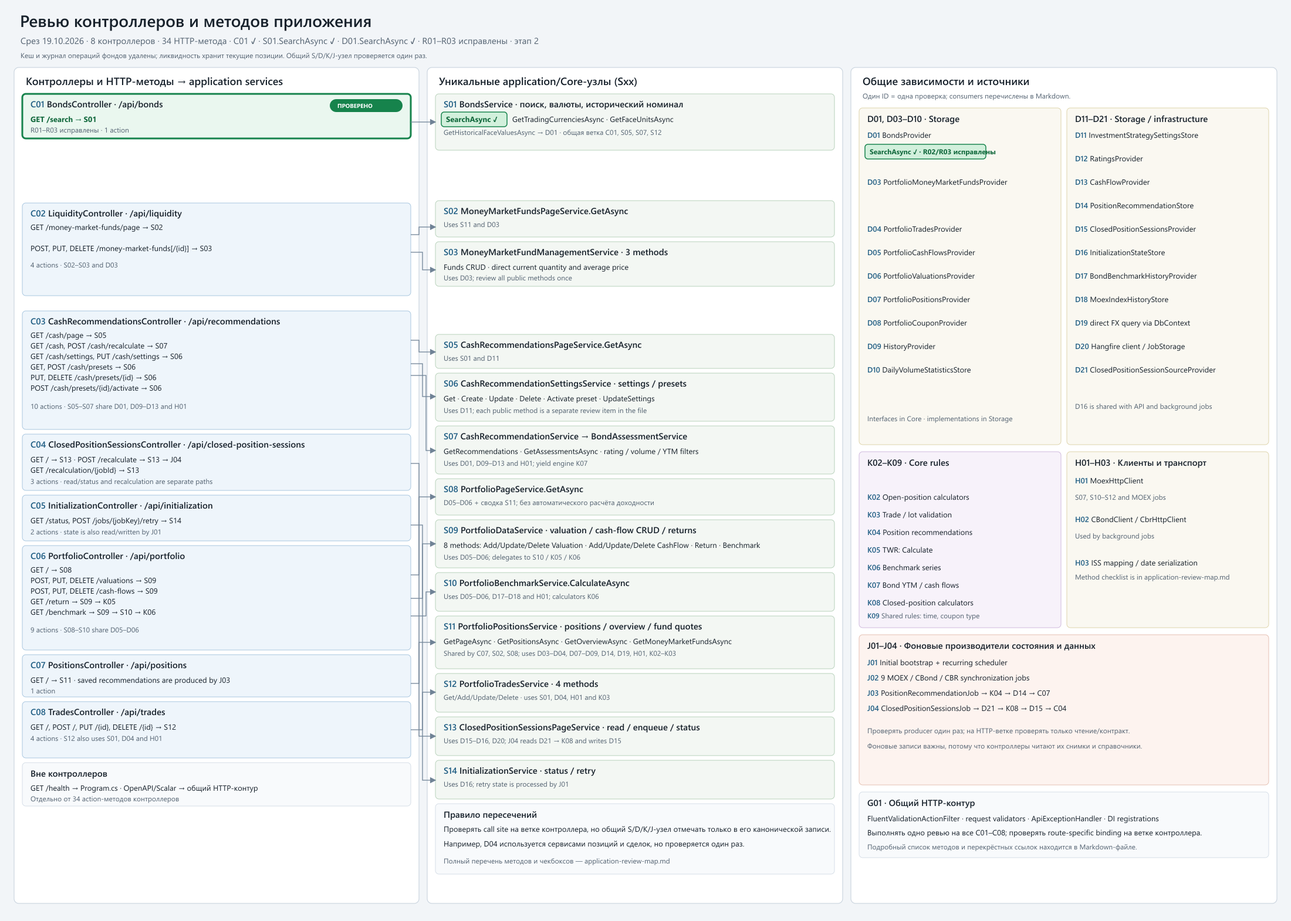
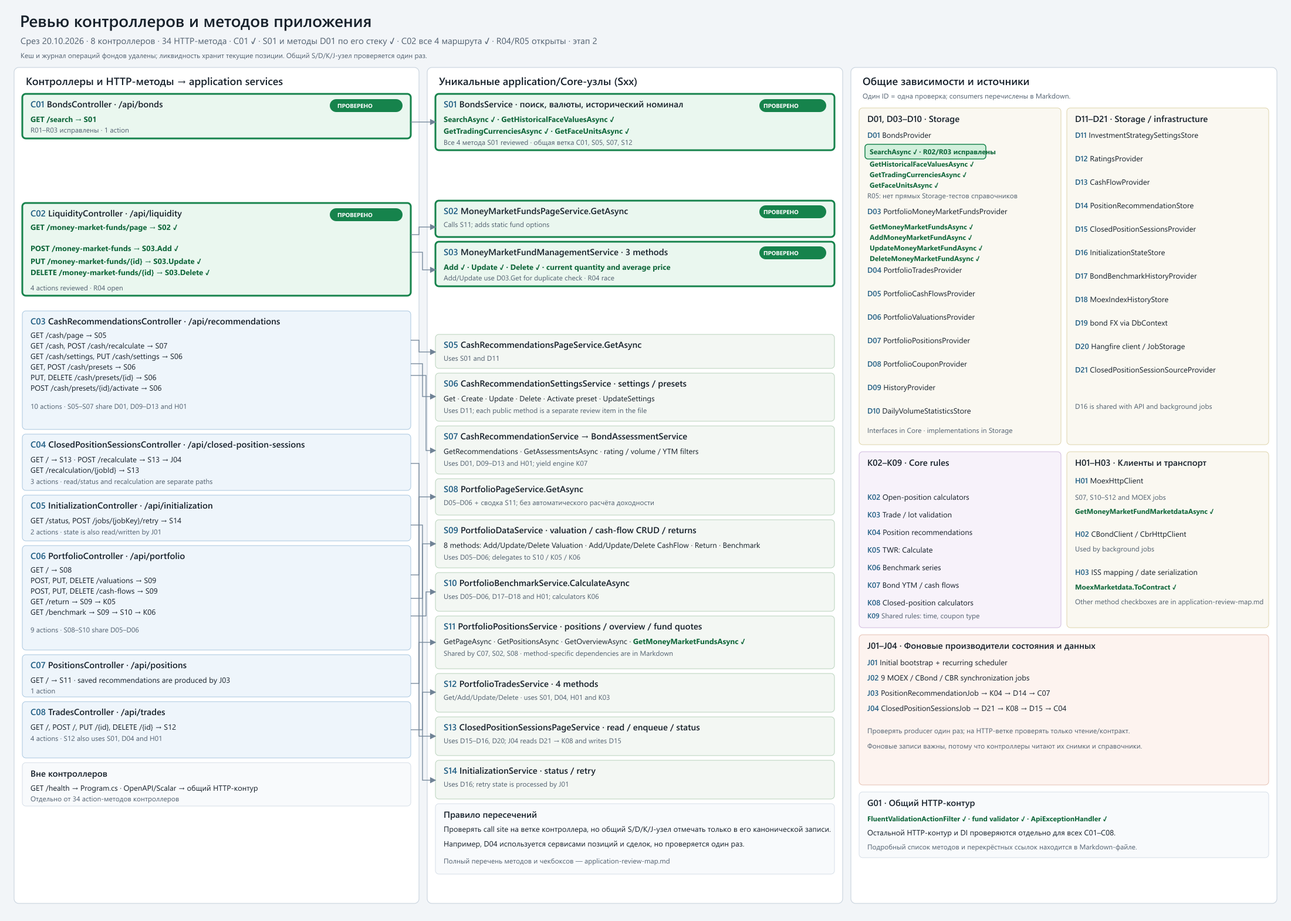
Document review of bonds service stack

diff --git a/src/Popo.Core/Bonds/IBondsService.cs b/src/Popo.Core/Bonds/IBondsService.cs
@@ -10,10 +10,13 @@ public interface IBondsService
         IReadOnlyList<BondFaceValueRequest> requests,
         CancellationToken cancellationToken);
 
-    /// <summary>Возвращает валюты, доступные для торговли облигациями, для списка выбора на странице кеша.</summary>
+    /// <summary>Возвращает валюты торгов облигациями, используемые для фильтрации рекомендаций.</summary>
     /// <param name="cancellationToken">Токен отмены операции.</param>
-    /// <returns>Уникальные коды валют.</returns>
+    /// <returns>Уникальные коды валют торгов.</returns>
     Task<IReadOnlyList<string>> GetTradingCurrenciesAsync(CancellationToken cancellationToken);
 
+    /// <summary>Возвращает валюты номинала.</summary>
+    /// <param name="cancellationToken">Токен отмены операции.</param>
+    /// <returns>Уникальные коды валют номинала.</returns>
     Task<IReadOnlyList<string>> GetFaceUnitsAsync(CancellationToken cancellationToken);
 }

diff --git a/src/Popo.Api/Models/CashInvestmentRecommendationModels.cs b/src/Popo.Api/Models/CashInvestmentRecommendationModels.cs
@@ -88,7 +88,14 @@ public sealed record CashRecommendationResponse(
 
 public static class CashInvestmentRecommendationApiMapper
 {
+    /// <summary>Преобразует сохранённый пресет стратегии в API-ответ.</summary>
+    /// <param name="preset">Пресет с настройками и признаком активности.</param>
+    /// <returns>Пресет в формате ответа API.</returns>
     public static InvestmentStrategyPresetResponse ToResponse(InvestmentStrategyPreset preset) => new(preset.Id, preset.Name, ToResponse(preset.Settings), preset.IsActive);
+
+    /// <summary>Преобразует настройки инвестиционной стратегии в API-ответ.</summary>
+    /// <param name="settings">Настройки стратегии.</param>
+    /// <returns>Настройки в формате ответа API.</returns>
     public static InvestmentStrategySettingsResponse ToResponse(InvestmentStrategySettings settings) => new(
         settings.MinimumRating,
         settings.MinimumMaturityDays,

diff --git a/src/Popo.Storage/Providers/Bonds/BondsProvider.cs b/src/Popo.Storage/Providers/Bonds/BondsProvider.cs
@@ -12,19 +12,20 @@ public sealed class BondsProvider(IDbContextFactory<PopoDbContext> dbContextFact
         return await dbContext.MoexBondSecurities
             .AsNoTracking()
             .Where(x => x.CurrencyId != null && x.CurrencyId != string.Empty)
-            .Select(x => x.CurrencyId!)
+            .Select(x => x.CurrencyId)
             .Distinct()
             .OrderBy(x => x)
             .ToListAsync(cancellationToken);
     }
 
+    /// <inheritdoc />
     public async Task<IReadOnlyList<string>> GetFaceUnitsAsync(CancellationToken cancellationToken)
     {
         await using var dbContext = await dbContextFactory.CreateDbContextAsync(cancellationToken);
         return await dbContext.MoexBondSecurities
             .AsNoTracking()
             .Where(x => x.FaceUnit != null && x.FaceUnit != string.Empty)
-            .Select(x => x.FaceUnit!)
+            .Select(x => x.FaceUnit)
             .Distinct()
             .OrderBy(x => x)
             .ToListAsync(cancellationToken);

diff --git a/src/Popo.Core/Recommendations/ICashInvestmentRecommendationStore.cs b/src/Popo.Core/Recommendations/ICashInvestmentRecommendationStore.cs
@@ -5,6 +5,9 @@ public sealed record InvestmentStrategyPreset(int Id, string Name, InvestmentStr
 public interface ICashInvestmentRecommendationStore
 {
     Task<InvestmentStrategySettings> GetSettingsAsync(CancellationToken cancellationToken);
+    /// <summary>Возвращает сохранённые пресеты инвестиционной стратегии.</summary>
+    /// <param name="cancellationToken">Токен отмены операции.</param>
+    /// <returns>Список пресетов с их настройками и признаком активного пресета.</returns>
     Task<IReadOnlyList<InvestmentStrategyPreset>> GetPresetsAsync(CancellationToken cancellationToken);
     Task<InvestmentStrategyPreset?> GetPresetAsync(int id, CancellationToken cancellationToken);
     Task<InvestmentStrategyPreset> SavePresetAsync(InvestmentStrategyPreset preset, CancellationToken cancellationToken);

diff --git a/src/Popo.Core/Bonds/IBondsProvider.cs b/src/Popo.Core/Bonds/IBondsProvider.cs
@@ -15,6 +15,9 @@ public interface IBondsProvider
     /// <returns>Коды валют, указанные в данных облигаций.</returns>
     Task<IReadOnlyList<string>> GetTradingCurrenciesAsync(CancellationToken cancellationToken);
 
+    /// <summary>Читает уникальные валюты номинала из сохранённых данных облигаций MOEX.</summary>
+    /// <param name="cancellationToken">Токен отмены операции.</param>
+    /// <returns>Коды валют номинала, указанные в данных облигаций.</returns>
     Task<IReadOnlyList<string>> GetFaceUnitsAsync(CancellationToken cancellationToken);
 
     Task<IReadOnlyList<BondSecurityDto>> GetSecurities(CancellationToken cancellationToken);

diff --git a/src/Popo.Api/Services/CashRecommendationsPageService.cs b/src/Popo.Api/Services/CashRecommendationsPageService.cs
@@ -8,6 +8,9 @@ public sealed class CashRecommendationsPageService(
     ICashInvestmentRecommendationStore store,
     IBondsService bondsService)
 {
+    /// <summary>Параллельно загружает пресеты и валюты фильтров, затем собирает ответ страницы рекомендаций.</summary>
+    /// <param name="cancellationToken">Токен отмены запроса.</param>
+    /// <returns>Пресеты стратегии, валюты торгов и валюты номинала.</returns>
     public async Task<CashRecommendationsPageResponse> GetAsync(CancellationToken cancellationToken)
     {
         var presetsTask = store.GetPresetsAsync(cancellationToken);

diff --git a/src/Popo.Core/Bonds/BondsService.cs b/src/Popo.Core/Bonds/BondsService.cs
@@ -16,6 +16,7 @@ public sealed class BondsService(IBondsProvider bondsProvider) : IBondsService
     public Task<IReadOnlyList<string>> GetTradingCurrenciesAsync(CancellationToken cancellationToken)
         => bondsProvider.GetTradingCurrenciesAsync(cancellationToken);
 
+    /// <inheritdoc />
     public Task<IReadOnlyList<string>> GetFaceUnitsAsync(CancellationToken cancellationToken)
         => bondsProvider.GetFaceUnitsAsync(cancellationToken);
 }

diff --git a/src/Popo.Storage/Providers/InvestmentStrategySettingsStore.cs b/src/Popo.Storage/Providers/InvestmentStrategySettingsStore.cs
@@ -16,6 +16,7 @@ public sealed class InvestmentStrategySettingsStore(IDbContextFactory<PopoDbCont
         return entity is null ? InvestmentStrategySettings.Defaults : ToDomain(entity);
     }
 
+    /// <inheritdoc />
     public async Task<IReadOnlyList<InvestmentStrategyPreset>> GetPresetsAsync(CancellationToken cancellationToken)
     {
         await using var db = await dbContextFactory.CreateDbContextAsync(cancellationToken);

diff --git a/docs/reviews/application-review-map.md b/docs/reviews/application-review-map.md
@@ -1,17 +1,17 @@
 # Карта ревью контроллеров и методов приложения
 
-Срез актуализирован по структуре рабочей копии на 19.10.2026 после удаления кеша со страницы «Ликвидность» и перехода фондов на хранение текущего количества паёв и средней цены вместо журнала операций. Карта описывает маршруты вызовов; состояние ревью и замечания фиксируются в этом же файле.
+Срез актуализирован по структуре рабочей копии на 20.10.2026 после удаления кеша со страницы «Ликвидность» и перехода фондов на хранение текущего количества паёв и средней цены вместо журнала операций. Карта описывает маршруты вызовов; состояние ревью и замечания фиксируются в этом же файле.
 Включены публичные production-методы достижимых от HTTP-входов и связанных фоновых producer-ов классов; DTO/record-конструкторы и сгенерированный EF-код не являются отдельными пунктами ревью.
 
 ## Этапы и состояние
 
-- [x] **Этап 1. Инвентаризация и карта зависимостей** — актуализирован 19.10.2026: 8 контроллеров и 34 HTTP-метода; учтены текущие application/Core/Storage/HttpClients-узлы и фоновые производители данных.
-- [ ] **Этап 2. Ревью HTTP-методов контроллеров** — начат 17.10.2026; C01 и связанные методы проверены, R01–R03 исправлены.
+- [x] **Этап 1. Инвентаризация и карта зависимостей** — актуализирован 20.10.2026: 8 контроллеров и 34 HTTP-метода; учтены текущие application/Core/Storage/HttpClients-узлы и фоновые производители данных.
+- [ ] **Этап 2. Ревью HTTP-методов контроллеров** — начат 17.10.2026; C01 и все четыре маршрута C02 проверены; все четыре метода S01 и все связанные с ними методы D01 проверены; R01–R03 исправлены, R04 и R05 открыты.
 - [ ] **Этап 3. Ревью уникальных application- и Core-методов** — после этапа 2.
 - [ ] **Этап 4. Ревью providers, HTTP-клиентов и фоновых производителей данных** — общие узлы отмечать только один раз.
 - [ ] **Этап 5. Сводка замечаний и решение по исправлениям**.
 
-**Текущий статус:** этап 2; `BondsController.Search`, `BondsService.SearchAsync` и `BondsProvider.SearchAsync` проверены и выделены в схеме. R01–R03 исправлены; тесты проходят: .NET — 406, Storage — 37, Frontend — 43. Денежные остатки/снимки кеша и журнал операций фондов удалены; страница ликвидности хранит текущие позиции фондов, а cash-рекомендации и денежные потоки портфеля остаются отдельными действующими ветками.
+**Текущий статус:** этап 2; проверены все методы `BondsService` и соответствующие им методы `BondsProvider`, а также `BondsController.Search` и все маршруты `LiquidityController`. R01–R03 исправлены; R04 — гонка Add/Update фонда, R05 — нет прямых Storage-тестов выборок валют и валют номинала. Ранее проходили тесты: .NET — 406, Storage — 37, Frontend — 43. Денежные остатки/снимки кеша и журнал операций фондов удалены; cash-рекомендации и денежные потоки портфеля остаются отдельными действующими ветками.
 
 ## Как пользоваться картой
 
@@ -87,10 +87,10 @@ Popo.Api
 
 Файл: [`LiquidityController.cs`](../../src/Popo.Api/Controllers/LiquidityController.cs)
 
-- [ ] `GET /api/liquidity/money-market-funds/page` — `GetMoneyMarketFundsPage` → `S02.MoneyMarketFundsPageService.GetAsync`.
-- [ ] `POST /api/liquidity/money-market-funds` — `AddMoneyMarketFund` → `S03.AddMoneyMarketFundAsync`.
-- [ ] `PUT /api/liquidity/money-market-funds/{id}` — `UpdateMoneyMarketFund` → `S03.UpdateMoneyMarketFundAsync`.
-- [ ] `DELETE /api/liquidity/money-market-funds/{id}` — `DeleteMoneyMarketFund` → `S03.DeleteMoneyMarketFundAsync`.
+- [x] `GET /api/liquidity/money-market-funds/page` — `GetMoneyMarketFundsPage` → `S02.MoneyMarketFundsPageService.GetAsync`; проверено 19.10.2026 вместе со стеком чтения позиций фондов.
+- [x] `POST /api/liquidity/money-market-funds` — `AddMoneyMarketFund` → `S03.AddMoneyMarketFundAsync`; стек добавления проверен 20.10.2026, открыто замечание R04.
+- [x] `PUT /api/liquidity/money-market-funds/{id}` — `UpdateMoneyMarketFund` → `S03.UpdateMoneyMarketFundAsync`; проверено 20.10.2026: валидирует запрос, возвращает обновлённую запись с `200 OK`; HTTP-тест проверяет ответ и сохранённые значения.
+- [x] `DELETE /api/liquidity/money-market-funds/{id}` — `DeleteMoneyMarketFund` → `S03.DeleteMoneyMarketFundAsync`; проверено 20.10.2026: при успехе возвращает `204 NoContent`, отсутствующая запись проходит как 404.
 
 ### C03 — `CashRecommendationsController`
 
@@ -153,9 +153,10 @@ Popo.Api
 
 ### Общий HTTP-контур — один раз для всех Cxx
 
-- [ ] `FluentValidationActionFilter.OnActionExecutionAsync` — [`FluentValidationActionFilter.cs`](../../src/Popo.Api/Filters/FluentValidationActionFilter.cs).
-- [ ] Валидаторы `BondSearchRequest`, strategy settings/preset, fund, valuation/cash-flow/return query и trade — папка [`Validators`](../../src/Popo.Api/Validators/); проверить правила в их `AbstractValidator`-конструкторах.
-- [ ] `ApiExceptionHandler.TryHandleAsync`, типизированные ошибки Core и соответствие статусов ADR-0004 — [`ApiExceptionHandler.cs`](../../src/Popo.Api/ApiExceptionHandler.cs), [`ADR-0004`](../adr/0004-обработка-ошибок-api-вне-контроллеров.md).
+- [x] `FluentValidationActionFilter.OnActionExecutionAsync` — проверен 20.10.2026: находит зарегистрированный валидатор аргумента, возвращает 400 при ошибках и не вызывает action; [`FluentValidationActionFilter.cs`](../../src/Popo.Api/Filters/FluentValidationActionFilter.cs).
+- [x] `UpsertMoneyMarketFundRequestValidator` — проверен 20.10.2026 для POST/PUT: разрешает только LQDT/TMON, положительное целое количество и конечную положительную среднюю цену.
+- [ ] Остальные валидаторы (`BondSearchRequest`, strategy settings/preset, valuation/cash-flow/return query и trade) — папка [`Validators`](../../src/Popo.Api/Validators/); проверять правила в их `AbstractValidator`-конструкторах.
+- [x] `ApiExceptionHandler.TryHandleAsync`, типизированные ошибки Core и соответствие статусов ADR-0004 — проверены 20.10.2026; 400/404/409 и общий 500 покрыты тестом [`ApiExceptionHandlerTests.cs`](../../tests/Popo.Tests/ApiExceptionHandlerTests.cs). Необработанная ошибка уникального индекса при гонке POST остаётся R04; [`ApiExceptionHandler.cs`](../../src/Popo.Api/ApiExceptionHandler.cs), [`ADR-0004`](../adr/0004-обработка-ошибок-api-вне-контроллеров.md).
 - [ ] `Program.cs`: регистрацию, миграции, CORS, `MapControllers`, OpenAPI/Scalar и `GET /health` — [`Program.cs`](../../src/Popo.Api/Program.cs).
 - [ ] `ApiServiceCollectionExtensions.AddPopoApiServices` — [`ApiServiceCollectionExtensions.cs`](../../src/Popo.Api/ApiServiceCollectionExtensions.cs).
 - [ ] `Popo.Core.ServiceCollectionExtensions.AddPopoCore` — регистрация Core-сервисов.
@@ -178,23 +179,23 @@ Popo.Api
 Используется C01, S05, S07 и S12. Реализация: [`BondsService.cs`](../../src/Popo.Core/Bonds/BondsService.cs).
 
 - [x] `SearchAsync` — проверен 17.10.2026; согласован с API-контрактом nullable НКД.
-- [ ] `GetHistoricalFaceValuesAsync`.
-- [ ] `GetTradingCurrenciesAsync`.
-- [ ] `GetFaceUnitsAsync`.
+- [x] `GetHistoricalFaceValuesAsync` — проверено 20.10.2026: передаёт пакет запросов в D01; для каждой сделки возвращается последнее положительное значение номинала на дату сделки или раньше, с точным совпадением SECID и доски; без истории значение остаётся null.
+- [x] `GetTradingCurrenciesAsync` — проверено 20.10.2026: делегирует D01 получение уникальных непустых кодов валют торгов, отсортированных по возрастанию; прямого Storage-теста нет (R05).
+- [x] `GetFaceUnitsAsync` — проверено 20.10.2026: делегирует D01 получение уникальных непустых валют номинала, отсортированных по возрастанию; прямого Storage-теста нет (R05).
 
 ### S02 — страница фондов, `MoneyMarketFundsPageService`
 
-Файл: [`MoneyMarketFundsPageService.cs`](../../src/Popo.Api/Services/MoneyMarketFundsPageService.cs). Связи: D03, S11.
+Файл: [`MoneyMarketFundsPageService.cs`](../../src/Popo.Api/Services/MoneyMarketFundsPageService.cs). Вызывает S11; список вариантов формирует из `RelationHelper.MoneyMarketFunds`.
 
-- [ ] `GetAsync`; проверить загрузку текущих позиций и согласованность частей ответа.
+- [x] `GetAsync` — проверено 19.10.2026: загружает оценённые позиции через S11 и добавляет варианты фондов из общего справочника.
 
 ### S03 — изменение текущих позиций фондов, `MoneyMarketFundManagementService`
 
-Файл: [`MoneyMarketFundManagementService.cs`](../../src/Popo.Api/Services/MoneyMarketFundManagementService.cs). Связи: D03.
+Файл: [`MoneyMarketFundManagementService.cs`](../../src/Popo.Api/Services/MoneyMarketFundManagementService.cs). Для Add используются `RelationHelper.MoneyMarketFunds`, `D03.GetMoneyMarketFundsAsync` и `D03.AddMoneyMarketFundAsync`.
 
-- [ ] `AddMoneyMarketFundAsync`.
-- [ ] `UpdateMoneyMarketFundAsync`.
-- [ ] `DeleteMoneyMarketFundAsync`.
+- [x] `AddMoneyMarketFundAsync` — проверено 20.10.2026: нормализует SECID, разрешает только фонды из справочника, проверяет существующую позицию и передаёт количество/среднюю цену в D03. Гонка между проверкой и INSERT — R04.
+- [x] `UpdateMoneyMarketFundAsync` — проверено 20.10.2026: проверяет поддерживаемый фонд и дубликат (с исключением текущего `id`), передаёт канонический `BoardId`, количество и среднюю цену в D03; отсутствие записи превращает в 404. Проверка дубликата использует уже проверенный D03.Get.
+- [x] `DeleteMoneyMarketFundAsync` — проверено 20.10.2026: вызывает D03.Delete и преобразует результат `false` в 404.
 
 ### S05 — данные страницы рекомендаций, `CashRecommendationsPageService`
 
@@ -249,12 +250,12 @@ Popo.Api
 
 ### S11 — открытые позиции, `PortfolioPositionsService`
 
-Файл: [`PortfolioPositionsService.cs`](../../src/Popo.Api/Services/Position/PortfolioPositionsService.cs). Использует D03–D04, D07–D09, D14, D19, H01 и K02–K03. Также вызывается S02 и S08.
+Файл: [`PortfolioPositionsService.cs`](../../src/Popo.Api/Services/Position/PortfolioPositionsService.cs). Общие зависимости класса: D03–D04, D07–D09, D14, D19, H01 и K02–K03. S02 вызывает только `GetMoneyMarketFundsAsync`, S08 — `GetOverviewAsync`.
 
 - [ ] `GetPageAsync`.
 - [ ] `GetPositionsAsync` — проверить контракт; прямого production-вызова из контроллеров в текущей карте нет.
 - [ ] `GetOverviewAsync(asOf)` — портфельная сводка.
-- [ ] `GetMoneyMarketFundsAsync` — котировки и оценка фондов для C02.
+- [x] `GetMoneyMarketFundsAsync` — проверено 19.10.2026 для C02: читает сохранённые позиции через D03, запрашивает котировку MOEX через H01 и рассчитывает текущую стоимость/результат; сделки, купоны и валютные курсы этому пути не нужны.
 - [ ] Загрузка источников, выбор калькулятора, цены, валют, купонов и fallback-пути — проверить внутри соответствующих методов выше.
 
 ### S12 — журнал сделок, `PortfolioTradesService`
@@ -288,15 +289,15 @@ Popo.Api
 
 - **D01 `BondsProvider`** (`IBondsProvider`) — S01, S07, S12 через S01; справочники и исторические номиналы.
   - [x] `SearchAsync` — проверен 17.10.2026; НКД сохраняет null, тесты расширены.
-  - [ ] `GetHistoricalFaceValuesAsync`.
-  - [ ] `GetTradingCurrenciesAsync`.
-  - [ ] `GetFaceUnitsAsync`.
+  - [x] `GetHistoricalFaceValuesAsync` — проверено 20.10.2026: одна выборка истории по SECID и максимальной дате; для каждого входного ключа возвращает последнее конечное положительное значение на дату или раньше, совпадая также по доске; сохраняет порядок запросов и null при отсутствии истории. Storage-тест проверяет даты, доски и нормализацию SECID.
+  - [x] `GetTradingCurrenciesAsync` — проверено 20.10.2026: no-tracking выборка непустых `CurrencyId`, уникальная и отсортированная; прямого Storage-теста нет (R05).
+  - [x] `GetFaceUnitsAsync` — проверено 20.10.2026: no-tracking выборка непустых `FaceUnit`, уникальная и отсортированная; прямого Storage-теста нет (R05).
   - [ ] `GetSecurities`.
-- **D03 `PortfolioMoneyMarketFundsProvider`** (`IPortfolioMoneyMarketFundsProvider`) — S02, S03, S11.
-  - [ ] `GetMoneyMarketFundsAsync`.
-  - [ ] `AddMoneyMarketFundAsync`.
-  - [ ] `UpdateMoneyMarketFundAsync`.
-  - [ ] `DeleteMoneyMarketFundAsync`.
+- **D03 `PortfolioMoneyMarketFundsProvider`** (`IPortfolioMoneyMarketFundsProvider`) — S03, S11; S02 reaches it through S11.
+  - [x] `GetMoneyMarketFundsAsync` — проверено 19.10.2026: no-tracking чтение с сортировкой по `SecId` и проекцией сохранённого количества/средней цены; также используется S03 для проверки дубликата перед добавлением.
+  - [x] `AddMoneyMarketFundAsync` — проверено 20.10.2026: валидирует данные, нормализует SECID, вставляет позицию и сохраняет её; уникальный индекс защищает бизнес-ключ, но конфликт гонки не преобразуется в 409 (R04).
+  - [x] `UpdateMoneyMarketFundAsync` — проверено 20.10.2026: валидирует поля, загружает запись по `id`, сохраняет новые значения по шаблону `Attach`/`Modified` из ADR-0003 и возвращает сохранённую запись; Storage-тест перечитывает и проверяет обновлённые данные.
+  - [x] `DeleteMoneyMarketFundAsync` — проверено 20.10.2026: удаляет позицию по `id` через `ExecuteDeleteAsync`, результат показывает, найдена ли запись; Storage-тест подтверждает отсутствие строки после удаления.
 - **D04 `PortfolioTradesProvider`** (`IPortfolioTradesProvider`) — S11, S12; закрытые сессии читают сделки через отдельный source provider.
   - [ ] `GetTradesAsync`.
   - [ ] `GetTradeAsync`.
@@ -362,7 +363,7 @@ Popo.Api
 - **D18 `MoexIndexHistoryStore`** (`IMoexIndexHistoryStore`) — S10 обновляет кэш LQDT; также используется J02.
   - [ ] `UpsertAsync`.
   - [ ] `GetHistoryAsync`.
-- **D19 Прямой запрос валютных курсов через `IDbContextFactory<PopoDbContext>`** — часть `S11.GetMoneyMarketFundsAsync`; отдельного Storage provider нет.
+- **D19 Прямой запрос валютных курсов через `IDbContextFactory<PopoDbContext>`** — используется расчётами валют облигационных позиций в S11; в цепочке оценки фондов C02 не участвует.
 - **D20 Hangfire `IBackgroundJobClient` / `JobStorage`** — внешние методы постановки/чтения статуса в S13; J04 исполняет задачу.
 - **D21 `ClosedPositionSessionSourceProvider`** — J04 читает здесь сделки, купоны, амортизации и валютные курсы для K08.
   - [ ] `GetAsync`.
@@ -376,7 +377,7 @@ Popo.Api
   - [ ] `GetActiveBondsMarketdataAsync`.
   - [ ] `GetFutureAmortsAndCoupons`.
   - [ ] `GetBondHistoryPageAsync`.
-  - [ ] `GetMoneyMarketFundMarketdataAsync`.
+  - [x] `GetMoneyMarketFundMarketdataAsync` — проверено 19.10.2026: контракт, адаптер и транспорт запрашивают котировку по `SecId + BoardId`; ответ кэшируется на час, отсутствие строки приводит к явной ошибке.
   - [ ] `GetLqdtIndexHistoryAsync`.
   - [ ] `GetLqdtPriceHistoryAsync`.
   - [ ] `GetBondTradesAsync`.
@@ -395,7 +396,7 @@ Popo.Api
   - [ ] `MoexContractMapper.ToContract` — `MoexHistoryYields`.
   - [ ] `MoexContractMapper.ToContract` — `MoexIndexHistory`.
   - [ ] `MoexContractMapper.ToContract` — `MoexMarketdataYields`.
-  - [ ] `MoexContractMapper.ToContract` — `MoexMarketdata`.
+  - [x] `MoexContractMapper.ToContract` — `MoexMarketdata`; проверено 19.10.2026 для передачи котировки фонда из ISS-модели в Core.
   - [ ] `MoexContractMapper.ToContract` — `MoexTrade`.
   - [ ] `MoexContractMapper.ToContract` — `SecDescription`.
   - [ ] `MoexContractMapper.ToContract` — `MoexBondDescription`.
@@ -519,7 +520,7 @@ Popo.Api
 |---|---|---|
 | S01 / D01 `BondsService` / `BondsProvider` | C01, S05, S07, S12 | Ревью сервиса и provider один раз; call sites проверять в своих endpoint-ветках. |
 | S11 `PortfolioPositionsService` | C07, S02, S08 | Публичные методы сервиса проверять один раз; ветки используют нужный метод и свой контракт ответа. |
-| D03 `PortfolioMoneyMarketFundsProvider` | S02, S03, S11 | Один provider; чтение и CRUD текущих позиций проверяются в своих сервисных ветках. |
+| D03 `PortfolioMoneyMarketFundsProvider` | S03, S11 (S02 транзитивно) | Один provider; чтение и CRUD текущих позиций проверяются в своих сервисных ветках. |
 | D04 `PortfolioTradesProvider` | S11, S12 | Один provider; сценарии позиций и сделок не дублируют его ревью. |
 | D05 `PortfolioCashFlowsProvider` | S08–S10 | Один provider; проверить разные потребители по их S-узлам. |
 | D06 `PortfolioValuationsProvider` | S08–S10 | Один provider для страницы, CRUD, TWR и benchmark. |
@@ -538,10 +539,12 @@ Popo.Api
 
 ## Замечания
 
-Записи ниже относятся к первому проверенному endpoint и его провайдеру. Галочки показывают проведённое ревью; открытые замечания требуют отдельного решения или исправления.
+Записи ниже относятся к проверенным endpoint-ам и общим узлам. Галочки показывают проведённое ревью; открытые замечания требуют отдельного решения или исправления.
 
 | ID | Замечание | Решение/статус |
 |---|---|---|
 | R01 | **Клиент и API расходились по минимальной длине.** [`trades/page.tsx`](../../src/Popo.Frontend/src/app/trades/page.tsx) отправлял поиск от 2 символов, а `BondSearchRequestValidator` принимает от 3. | **Исправлено:** общий порог 3 символа; короткий ввод очищает варианты и не отправляется в API. Frontend-тесты прошли. |
 | R02 | **Неизвестный НКД превращался в ноль.** Provider отображал `AccruedInt == null` в `0`, и клиент терял различие между нулём и отсутствующими данными. | **Исправлено:** Core/API возвращают nullable `accruedInterest`, Storage сохраняет null, форма требует ручной ввод при неизвестном НКД. Storage-тест добавлен и прошёл. |
 | R03 | **Покрытие поиска было частичным.** Не было успешного теста действия контроллера, поиска по `ShortName`, пустого результата, null НКД и изоляции тестовых наборов. Тест валюты не проверял fallback. | **Исправлено и проверено:** добавлены тесты controller и provider; Storage-тесты используют отдельную схему и уникальные SECID на тест; тест валюты проверяет прямое значение. Успешно прошли .NET (406), Storage (37) и Frontend (43) теста; `dotnet ef migrations has-pending-model-changes` подтвердил отсутствие несозданной миграции. |
+| R04 | **Гонка при добавлении или изменении фонда.** `MoneyMarketFundManagementService.AddMoneyMarketFundAsync` и `UpdateMoneyMarketFundAsync` сначала читают список и проверяют дубликат, затем выполняют INSERT/UPDATE. Параллельные запросы Add/Add или Add/Update могут пройти pre-check; уникальный индекс `SecId` отклонит вторую запись как `DbUpdateException`. | **Открыто:** `ApiExceptionHandler` не распознаёт нарушение уникальности БД и вернёт 500 вместо 409. HTTP-тест PUT проверяет успешное сохранение; интеграционного теста успешного POST/повторного POST и теста конкурентного Add/Update нет. Рассмотреть перевод конкретного конфликта в `ApplicationConflictException` и покрытие конкурирующих запросов. |
+| R05 | **Не проверены Storage-запросы справочников валют.** `BondsProvider.GetTradingCurrenciesAsync` и `GetFaceUnitsAsync` фильтруют пустые значения, удаляют дубликаты и сортируют результат, но прямых Storage-тестов этих запросов нет. | **Открыто:** добавить изолированные тесты провайдера для null/пустых значений, дубликатов и порядка выдачи; текущий контракт страницы проверяет только ответный DTO, не EF-запросы. |
